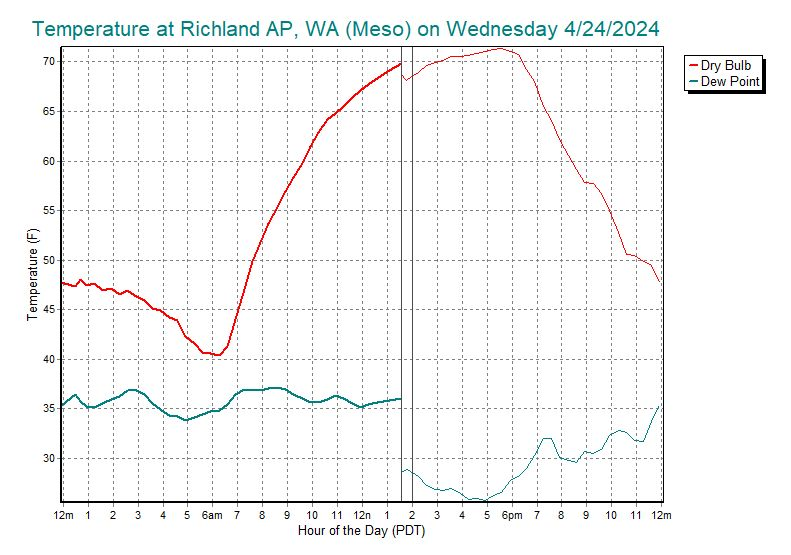
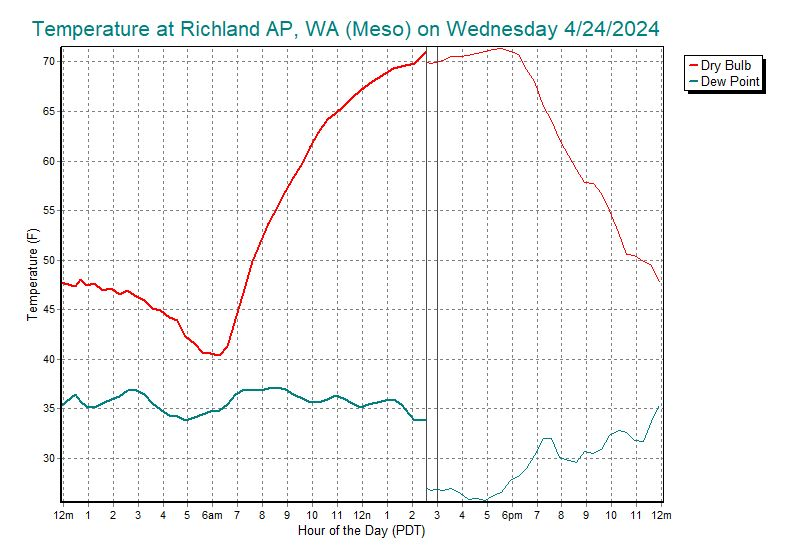
another update

diff --git a/charts.html b/charts.html
@@ -88,7 +88,7 @@
 	<p><b><font face="Arial" size="5">Samples from Rosy.asp</font></b></p>
    </div>
    <p><span>
-(24-hour charts updated Wednesday, April 24, 2024 at 04:00PM Central).
+(24-hour charts updated Wednesday, April 24, 2024 at 05:00PM Central).
    </span></p>
    <p>The orginal ASP page is named Rosy, a nickname windsurfers from the Tri-Cities gave Roosevelt, a sailing site on the east end of the Columbia River gorge.</p>
 	<p>This first pair of sample charts, wind and temperature, is updated every 

diff --git a/charts_input.html b/charts_input.html
@@ -88,7 +88,7 @@
 	<p><b><font face="Arial" size="5">Samples from Rosy.asp</font></b></p>
    </div>
    <p><span>
-(24-hour charts updated Wednesday, April 24, 2024 at 04:00PM Central).
+(24-hour charts updated Wednesday, April 24, 2024 at 05:00PM Central).
    </span></p>
    <p>The orginal ASP page is named Rosy, a nickname windsurfers from the Tri-Cities gave Roosevelt, a sailing site on the east end of the Columbia River gorge.</p>
 	<p>This first pair of sample charts, wind and temperature, is updated every 
